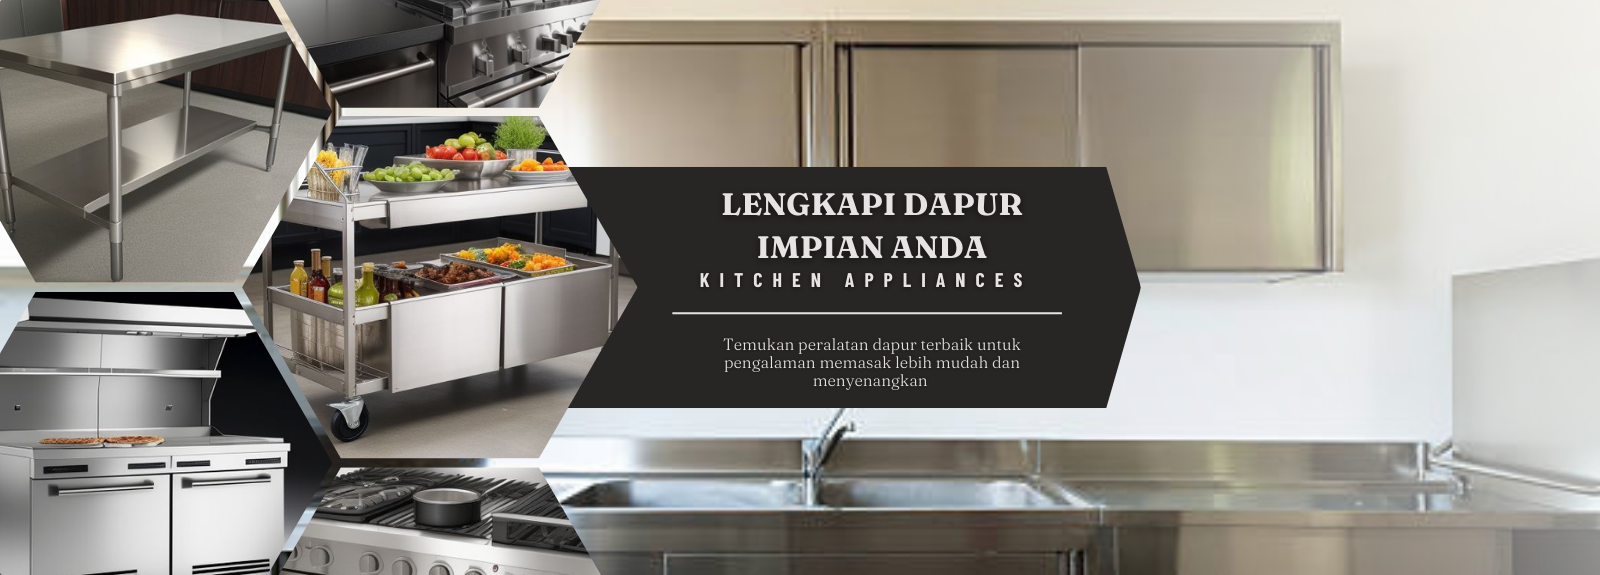
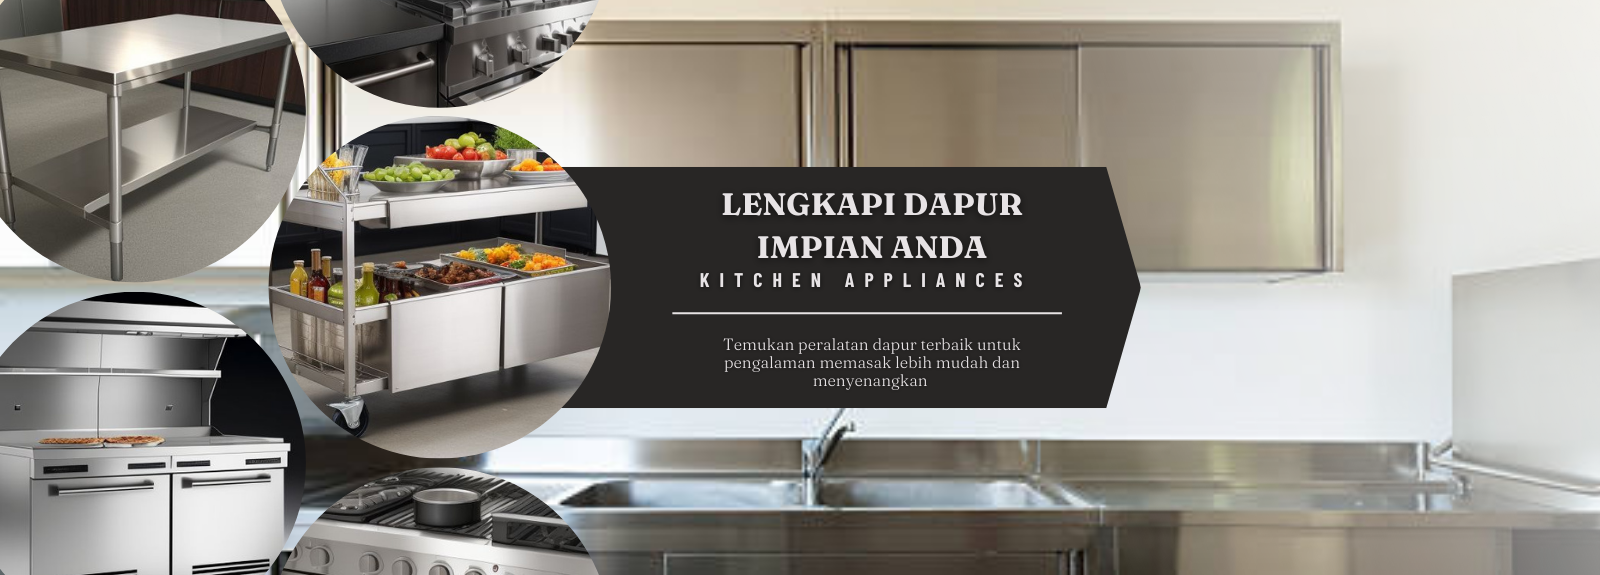
update

diff --git a/resources/js/Pages/Welcome.jsx b/resources/js/Pages/Welcome.jsx
@@ -123,18 +123,21 @@ export default function Welcome({ auth, canLogin, canRegister, featuredProducts,
       {/* Spacer to account for fixed navbar - only on desktop */}
       {!isMobile && <div className="h-16"></div>}
       
-      {/* Main Carousel - Responsive with different images for mobile/desktop */}
+      {/* Main Carousel - Combined approach for mobile/desktop */}
       <div className="relative w-full">
-        {/* Carousel container with optimized aspect ratio */}
+        {/* Carousel container with fixed height for desktop and full height for mobile */}
         <div 
           ref={carouselRef}
           className="relative w-full overflow-hidden"
-          style={{ height: isMobile ? "100vh" : "calc(90vh - 64px)" }}
+          style={{ 
+            height: isMobile ? "100vh" : "calc(70vh - 64px)",
+            maxHeight: isMobile ? "none" : "600px" 
+          }}
           onTouchStart={handleTouchStart}
           onTouchMove={handleTouchMove}
           onTouchEnd={handleTouchEnd}
         >
-          {/* Slides with fade and slide transitions */}
+          {/* Slides with improved transitions */}
           {carouselSlides.map((slide, index) => (
             <div 
               key={slide.id}
@@ -146,17 +149,27 @@ export default function Welcome({ auth, canLogin, canRegister, featuredProducts,
                     : 'opacity-0 translate-x-full z-0'
               }`}
             >
-              <div 
-                className="w-full h-full bg-center bg-cover"
-                style={{ 
-                  backgroundImage: `url(${isMobile ? slide.portraitImage : slide.landscapeImage})`,
-                  backgroundPosition: 'center',
-                  backgroundSize: isMobile ? 'cover' : '100% auto'
-                }}
-              >
-                {/* Enhanced overlay for better text contrast and elegance */}
-                <div className="absolute inset-0 bg-gradient-to-r from-black/30 via-transparent to-black/10"></div>
-              </div>
+              {isMobile ? (
+                <div 
+                  className="w-full h-full bg-center bg-cover"
+                  style={{ 
+                    backgroundImage: `url(${slide.portraitImage})`,
+                    backgroundPosition: 'center',
+                    backgroundSize: 'cover'
+                  }}
+                >
+                  <div className="absolute inset-0 bg-gradient-to-r from-black/30 via-transparent to-black/10"></div>
+                </div>
+              ) : (
+                <>
+                  <img 
+                    src={slide.landscapeImage}
+                    alt={`Slide ${slide.id}`}
+                    className="w-full h-full object-cover"
+                  />
+                  <div className="absolute inset-0 bg-gradient-to-r from-black/30 via-transparent to-black/10"></div>
+                </>
+              )}
             </div>
           ))}
 
@@ -194,12 +207,10 @@ export default function Welcome({ auth, canLogin, canRegister, featuredProducts,
               />
             ))}
           </div>
-          
-          
         </div>
 
-        {/* Product Categories Section - Original 3x3 grid with refined styling */}
-        <div className="grid grid-cols-1 sm:grid-cols-2 md:grid-cols-3">
+        {/* Product Categories Section - Grid layout with proper sizing */}
+        <div className="grid grid-cols-2 md:grid-cols-3">
           {productCategories.map((category) => (
             <Link
               key={category.id}
@@ -207,10 +218,11 @@ export default function Welcome({ auth, canLogin, canRegister, featuredProducts,
               className="group relative overflow-hidden"
             >
               <div className="relative aspect-square overflow-hidden">
-                <div 
-                  className="w-full h-full bg-cover bg-center transition-transform duration-500 group-hover:scale-105"
-                  style={{ backgroundImage: `url(${category.image})` }}
-                ></div>
+                <img 
+                  src={category.image} 
+                  alt={category.name}
+                  className="w-full h-full object-cover transition-transform duration-500 group-hover:scale-105"
+                />
                 {/* Refined text overlay with better visibility */}
                 <div className="absolute inset-0 bg-gradient-to-t from-black/80 via-black/40 to-transparent flex items-end">
                   <div className="w-full p-3 md:p-4 text-white font-medium md:font-semibold text-center text-sm md:text-base">

diff --git a/resources/js/Components/Footer.jsx b/resources/js/Components/Footer.jsx
@@ -122,7 +122,7 @@ const Footer = () => {
           <div>
             <h3 className="text-lg font-semibold mb-6">Quick Links</h3>
             <ul className="space-y-3">
-              {['Products', 'About Us', 'Contact', ].map((item) => (
+              {['Products', 'About', 'Contact', ].map((item) => (
                 <li key={item}>
                   <a 
                     href={`/${item.toLowerCase().replace(' ', '-')}`}
